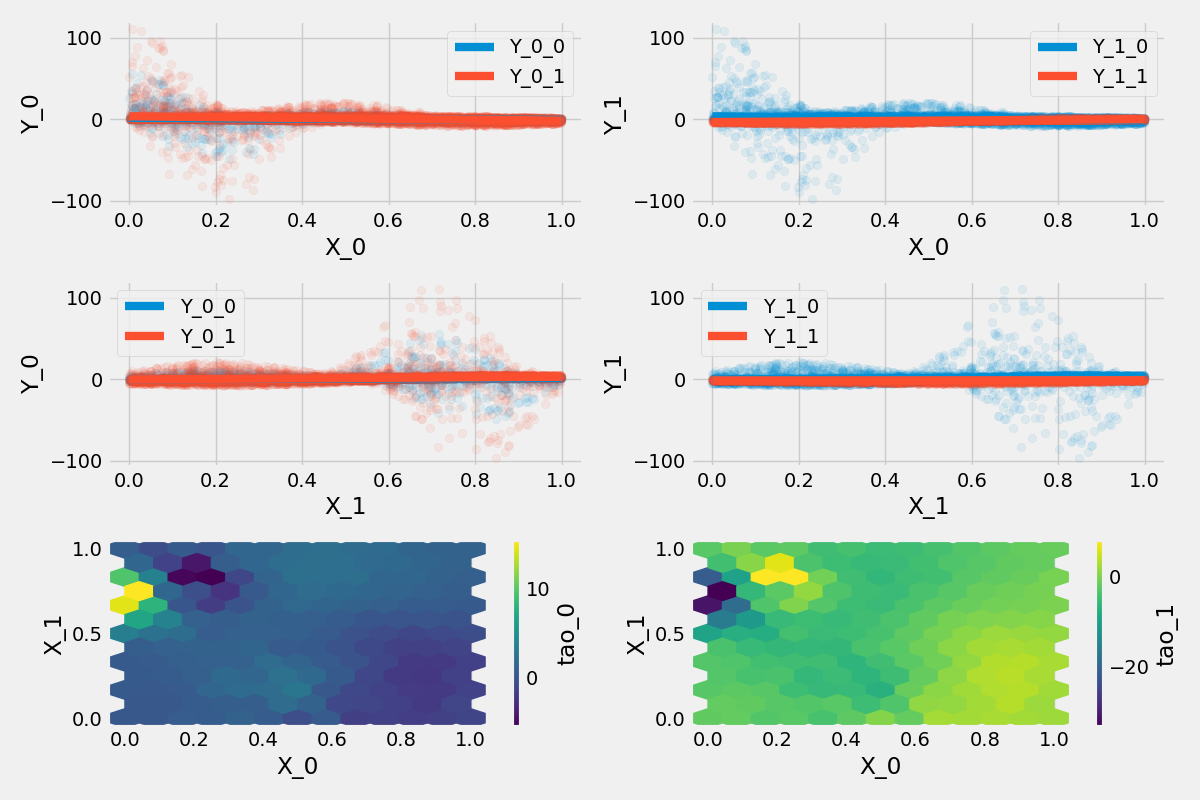
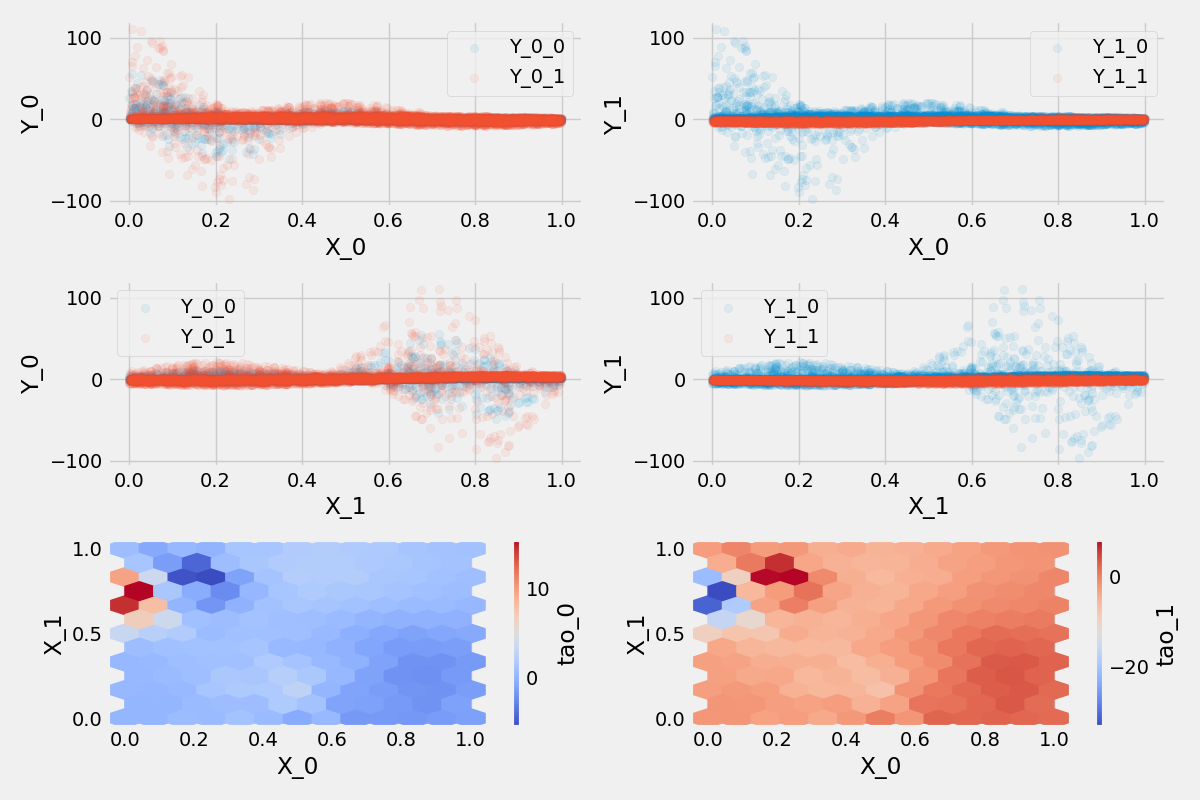
Change data generation logic, fix RRR experiment

diff --git a/experiments/regression/algo_adap.py b/experiments/regression/algo_adap.py
@@ -1,0 +1,60 @@
+import os
+import json
+import yaml
+import pathlib
+from tqdm import tqdm
+
+from ...data.dataset import Dataset
+from ...evaluation.uplift_curve import UpliftCurve
+from ...experiments.experiment import Experiment
+
+from ...evaluation.mo_regression import average_rmse
+
+from ...models.enums import ModelEnum, MethodEnum
+
+class AlgoAdaptation(Experiment):
+    def __init__(self, yaml_file) -> None:
+        self.file_name = yaml_file.split('.') [0]
+        self.current_file_path = pathlib.Path(__file__)
+        config_path = os.path.join(self.current_file_path.parent.parent.resolve(), 'configs', yaml_file)
+        with open(config_path, 'r') as file:
+            self.config = yaml.safe_load(file) 
+
+    def save_figures(self, results, dir_name):
+        pass
+
+    def save_results(self, results):
+        dir_name = self.verify_file_structure(self.file_name)
+        # results = self.parse_results(results=results)
+        # df = self.get_df(results=results, row='tradeoff_type', column='model', drop_cols=['cv_results'])
+
+        # self.save_figures(results=results, dir_name=dir_name)
+
+        with open(os.path.join(dir_name, f'{self.file_name}.json'), 'w') as file:
+            json.dump(results, file, indent=4)
+        
+        # with open(os.path.join(dir_name, 'table.tex'), 'w') as file:
+        #     file.write(df.to_latex())
+
+    def run(self):
+
+        # create dataset
+        dimensions = self.config['dimensions']
+        dataset_config = dimensions['dataset']
+        dataset = Dataset(**dataset_config)
+        
+        method = dimensions['method']
+        method_obj = MethodEnum[method].value()
+        
+        results = []
+        for fold in dataset.split():
+            method_obj.fit(X=dataset.X[fold.train_idx, :], 
+                            w=dataset.w[fold.train_idx, :], 
+                            Y=dataset.Y_obs[fold.train_idx, :])
+            tao_pred = method_obj.predict(X=dataset.X[fold.test_idx, :])
+            armse = average_rmse(Y_true=dataset.tao[fold.test_idx, :], Y_pred=tao_pred, scale=False)
+            aauuc = UpliftCurve(df=dataset.get_split(fold.test_idx).copy(), uplift=tao_pred, weights='mean').get_auuc()
+            results.append({'armse': armse, 'aauuc': aauuc})
+
+
+        self.save_results(results)

diff --git a/models/regression/algorithm_adaptation/reduced_regression.py b/models/regression/algorithm_adaptation/reduced_regression.py
@@ -1,13 +1,13 @@
 import numpy as np
 
-from models.model import Model
+from ...model import Model
 
-class ReducedRankRegression(Model):
+class RRRBase(Model):
 
-    def __init__(self, rank):
+    def __init__(self, rank=1):
         self.rank = rank
 
-    def fit(self, X, w, Y):
+    def fit(self, X, Y):
         XX = np.dot(X.T, X)
         XY = np.dot(X.T, Y)
         X_inv = np.linalg.pinv(XX)
@@ -19,3 +19,26 @@ class ReducedRankRegression(Model):
 
     def predict(self, X):
         return np.dot(X, np.dot(self.A.T, self.W.T))
+
+class ReducedRankRegression(Model):
+
+    def __init__(self, rank=1):
+        self.rank = rank
+        self.treatment_models = []
+
+    def fit(self, X, w, Y):
+        for t in [0, 1]:
+            mask = (w == t).flatten()
+            X_filtered = X[mask]
+            Y_filtered = Y[mask]
+            model = RRRBase()
+            model.fit(X_filtered, Y_filtered)
+            self.treatment_models.append(model)
+
+    def predict(self, X):
+        preds = []
+        for model in self.treatment_models:
+            pred = model.predict(X)
+            preds.append(pred)
+
+        return preds[1] - preds[0]

diff --git a/tradeoffs/non_linear.py b/tradeoffs/non_linear.py
@@ -15,8 +15,8 @@ class NonLinearTradeoff(Tradeoff):
         for x in X[:, :2].T:
             mu *= self.sigmoid(x)
         
-        mu_0_0 = -0.5 * mu
-        mu_0_1 = 0.5 * mu
+        mu_0_0 = -0.5 * mu + 1
+        mu_0_1 = 0.5 * mu - 1
         self.mus += [mu_0_0, mu_0_1]
         Y_0_0 = (mu_0_0 + np.random.normal(0, 0.1, X.shape[0])).reshape(-1, 1)
         Y_0_1 = (mu_0_1 + np.random.normal(0, 0.1, X.shape[0])).reshape(-1, 1)
@@ -26,10 +26,10 @@ class NonLinearTradeoff(Tradeoff):
     def get_tradeoff_effect(self, X):
         mu = 1
         for x in X[:, :2].T:
-            mu *= 1-self.sigmoid(x)
+            mu *= self.sigmoid(x)
         
-        mu_d_0 = 0.5 * mu
-        mu_d_1 = -0.5 * mu
+        mu_d_0 = -0.5 * mu + 1
+        mu_d_1 = 0.5 * mu - 1
         Y_d_0 = (mu_d_0 + np.random.normal(0, 0.1, X.shape[0])).reshape(-1, 1)
         Y_d_1 = (mu_d_1 + np.random.normal(0, 0.1, X.shape[0])).reshape(-1, 1)
 

diff --git a/data/dataset.py b/data/dataset.py
@@ -96,7 +96,7 @@ class Dataset:
                     im = axs[i, j].hexbin(x=self.X[:, 0], 
                                         y=self.X[:, 1], 
                                         C=self.Y[:, j+1]-self.Y[:, j], 
-                                        gridsize=12
+                                        gridsize=12, cmap='coolwarm'
                     )
                     # im = axs[i, j].tricontourf(self.X[:, 0], 
                     #                         self.X[:, 1], 
@@ -106,7 +106,6 @@ class Dataset:
                     axs[i, j].set_ylabel('X_1')                    
                     fig.colorbar(im, ax=axs[i, j], label=f'tao_{j}')
                     hex_values = im.get_array().reshape(-1, 1)
-                    print(hex_values.shape)
                     taos.append(hex_values)
                     offsets = im.get_offsets()
                 else:

diff --git a/models/enums.py b/models/enums.py
@@ -3,6 +3,7 @@ from enum import Enum
 from .uplift_modeling.direct_approach import CausalTree, CausalRF
 from .uplift_modeling.two_model_approach import SLearner, TLearner, XLearner, RLearner
 from .regression.problem_transformation import MultiTarget, SingleTarget, RegressorChain
+from .regression.algorithm_adaptation import ReducedRankRegression
 
 class ModelEnum(Enum):
     CAUSAL_TREE = CausalTree
@@ -16,3 +17,4 @@ class MethodEnum(Enum):
     ST = SingleTarget
     MT = MultiTarget
     RC = RegressorChain
+    RRR = ReducedRankRegression

diff --git a/experiments/enums.py b/experiments/enums.py
@@ -7,6 +7,7 @@ from .regression.method_model import MethodModel
 from .regression.propensity_model import PropensityModel
 from .regression.multirank_scalar import MultirankScalarization
 from .regression.get_data_plots import GetPlots
+from .regression.algo_adap import AlgoAdaptation
 
 class XPEnum(Enum):
     MM = MethodModel
@@ -16,3 +17,4 @@ class XPEnum(Enum):
     PM = PropensityModel
     MS = MultirankScalarization
     PL = GetPlots
+    AA = AlgoAdaptation

diff --git a/models/regression/algorithm_adaptation/__init__.py b/models/regression/algorithm_adaptation/__init__.py
@@ -1,0 +1,1 @@
+from .reduced_regression import ReducedRankRegression
